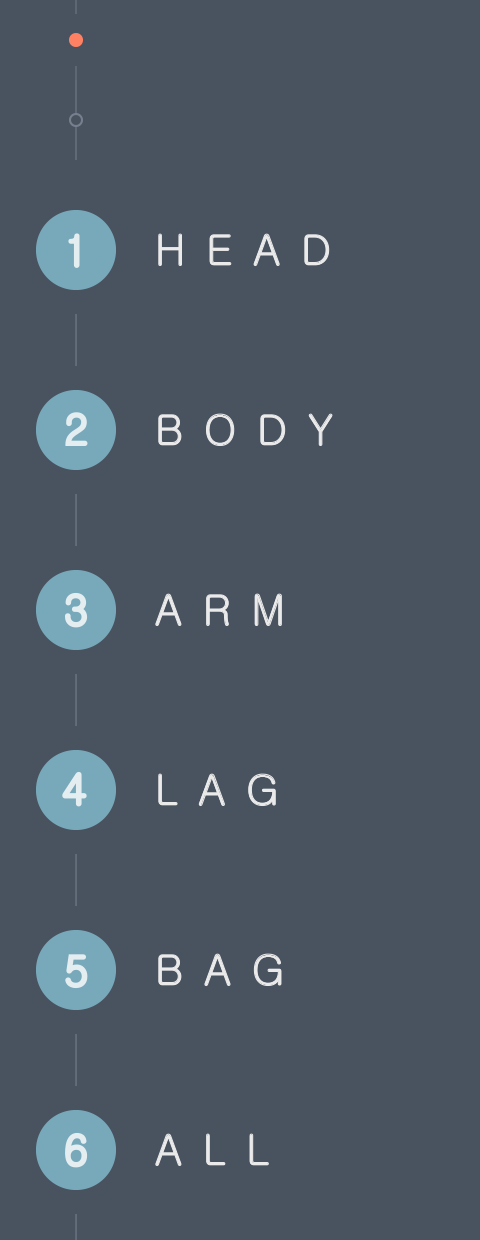
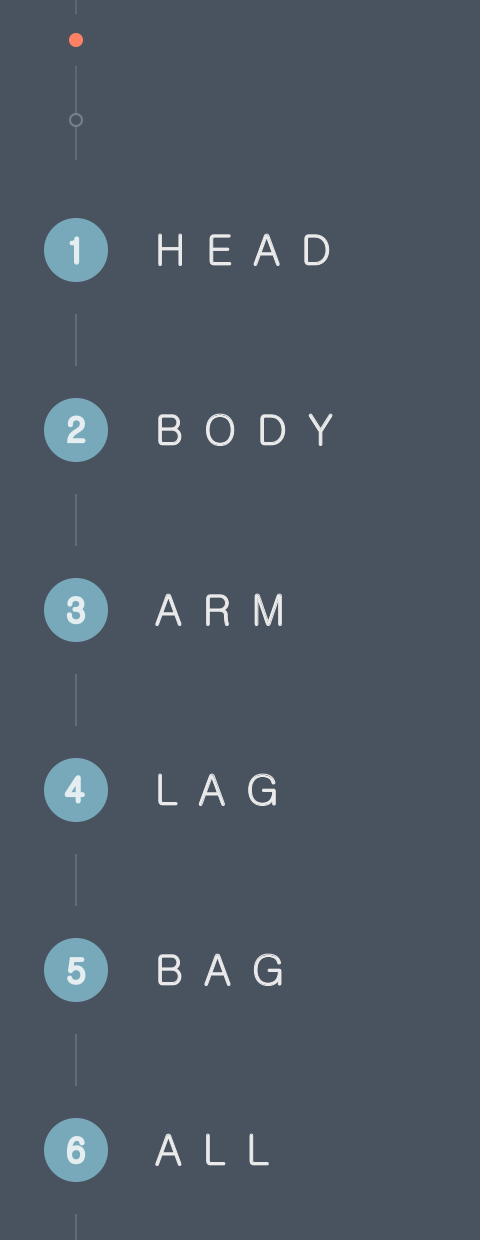
080

diff --git a/index.html b/index.html
@@ -24,7 +24,7 @@
         <div id="menu">
             <div id="contentsPage" class="scrollable">
                 <ul>
-                    <div id="menuTitle1"></div>
+                    <div id="contentsTitle1"></div>
                     <li>
                         <ul>
                             <li>01<span>R1  B3  G9 ...</span></li>
@@ -32,7 +32,7 @@
                             <li>03<span>G5  G14</span></li>
                         </ul>
                     </li>
-                    <div id="menuTitle2"></div>
+                    <div id="contentsTitle2"></div>
                     <li>
                         <ul>
                             <li>04<span>W1  B3  G9 ...</span></li>
@@ -41,14 +41,14 @@
                             <li>07<span>R1  G10  Y8</span></li>
                         </ul>
                     </li>
-                    <div id="menuTitle3"></div>
+                    <div id="contentsTitle3"></div>
                     <li>
                         <ul>
                             <li>08<span>R1  W3  Y7 ...</span></li>
                             <li>09<span>W1  B3  G9 ...</span></li>
                         </ul>
                     </li>
-                    <div id="menuTitle4"></div>
+                    <div id="contentsTitle4"></div>
                     <li>
                         <ul>
 
@@ -57,7 +57,7 @@
                             <li>12<span>R1  G10  Y8</span></li>
                         </ul>
                     </li>
-                    <div id="menuTitle5"></div>
+                    <div id="contentsTitle5"></div>
                     <li>
                         <ul>
                             <li>13<span>R1  W3  Y7 ...</span></li>
@@ -65,7 +65,7 @@
                             <li>15<span>B9  W3  B10 ...</span></li>
                         </ul>
                     </li>
-                    <div id="menuTitle6"></div>
+                    <div id="contentsTitle6"></div>
                     <li>
                         <ul>
                             <li>16<span>G5  G14</span></li>
@@ -78,7 +78,53 @@
             </div>
             <div id="searchPage">
                 <div id="filterPanel" class="scrollable">
-
+                    <div id="titleColor"></div>
+                    <div id="panelColor">
+                        <ul>
+                            <li id="colorWhite"></li>
+                            <li id="colorGray"></li>
+                            <li id="colorBlack"></li>
+                            <li id="colorBlue"></li>
+                            <li id="colorGreen"></li>
+                            <li id="colorYellow"></li>
+                            <li id="colorRed"></li>
+                        </ul>
+                    </div>
+                    <div id="titleNumber"></div>
+                    <div id="panelNumber">
+                        <ul>
+                            <li id="defaultNumber">1</li>
+                            <li>2</li>
+                            <li>3</li>
+                            <li>4</li>
+                            <li>5</li>
+                            <li>6</li>
+                            <li>7</li>
+                            <li>8</li>
+                            <li>9</li>
+                            <li>10</li>
+                            <li>11</li>
+                            <li>12</li>
+                            <li>13</li>
+                            <li>14</li>
+                            <li>15</li>
+                            <li>16</li>
+                            <li>17</li>
+                            <li>18</li>
+                            <li>19</li>
+                            <li>20</li>
+                            <li>21</li>
+                            <li>22</li>
+                            <li>23</li>
+                            <li>24</li>
+                            <li>25</li>
+                            <li>26</li>
+                            <li>27</li>
+                            <li>28</li>
+                            <li>29</li>
+                            <li>30</li>
+                        </ul>
+                    </div>
                 </div>
                 <div id="searchBtn">
                     Find B2

diff --git a/javascripts/main.js b/javascripts/main.js
@@ -59,6 +59,7 @@ var $mainBox = $("#mainBox"),
     $menuBtn = $("#menuBtn,#headerText"),
     $mainMask = $("#mainMask"),
     $contentsItem = $("#contentsPage li li"),
+    $colorItem = $("#panelColor li"),
     $previousBtn = $("#previousBtn"),
     $nextBtn = $("#nextBtn"),
     $previousGlow = $("#previousGlow"),
@@ -81,7 +82,8 @@ var $mainBox = $("#mainBox"),
     stepText = document.getElementById("stepText"),
     gradient = document.getElementById("menuFooterGradient"),
     // $animation1 = $("#animation1"),
-    lastItem = false,
+    lastContentsItem = false,
+    lastColorItem = $colorItem[0],
     separate = true,
     isChangeStep = true,
     currentStep = 1,
@@ -165,16 +167,16 @@ function menuTagTo(tag,lineTranslate,pageTranslate) {
 };
 
 function selectStep(item) {
-    if (item == lastItem) {
+    if (item == lastContentsItem) {
         return;
     };
-    if(lastItem){
-        lastItem.style.backgroundPosition = "0 -48px";
-        lastItem.style.color = "#9A9FA8";
+    if(lastContentsItem){
+        lastContentsItem.style.backgroundPosition = "0 -40px";
+        lastContentsItem.style.color = "#9A9FA8";
     };
     item.style.backgroundPosition = "0 0";
     item.style.color = "#CCD3DD";
-    lastItem = item;
+    lastContentsItem = item;
 };
 
 function changeStepN() {
@@ -282,13 +284,7 @@ aniBox2.addEventListener('webkitAnimationEnd', function(){
     };
 }, false);
 
-// aniBtn.addEventListener('webkitTransitionEnd', function(){
-//     if (separate) {
-//         mainAnimationS();
-//     }else{
-//         mainAnimationC();
-//     };
-// }, false);
+
 
 function padding(n) {
     return(("00" + n).slice(-3));
@@ -313,6 +309,21 @@ function mainAnimationS() {
     isChangeStep = false;
     imgAnimation.style.webkitAnimation = "mainAnimationS 0.5s forwards steps(19)";
 };
+
+function selectColor(item) {
+    lastColorItem.style.backgroundPositionY = "0";
+    item.style.backgroundPositionY = "-50px";
+    lastColorItem = item;
+
+};
+
+
+
+
+
+
+
+
 
 $(window).bind('onorientationchange resize', function() {
     resize();
@@ -344,6 +355,10 @@ $contentsItem.bind('touchend', function() {
     changeStepJ(($contentsItem.index(this))+1);
     selectStep(this);
     closeMenuBar();
+});
+
+$colorItem.bind('touchend', function() { 
+    selectColor(this);
 });
 
 $previousBtn.bind('touchstart', function() { 
@@ -687,5 +702,13 @@ $aniBtn.bind('touchstart', function() {
 //         };
 //     }, 40);
 // };
+
+// aniBtn.addEventListener('webkitTransitionEnd', function(){
+//     if (separate) {
+//         mainAnimationS();
+//     }else{
+//         mainAnimationC();
+//     };
+// }, false);
 
 });

diff --git a/stylesheets/stylesheet.css b/stylesheets/stylesheet.css
@@ -309,27 +309,27 @@ body, html{
     background-size: 240px 620px;
 }
 
-#menuTitle1{
+#contentsTitle1{
     background-position: 0 -80px;
 }
 
-#menuTitle2{
+#contentsTitle2{
     background-position: 0 -170px;
 }
 
-#menuTitle3{
+#contentsTitle3{
     background-position: 0 -260px;
 }
 
-#menuTitle4{
+#contentsTitle4{
     background-position: 0 -350px;
 }
 
-#menuTitle5{
+#contentsTitle5{
     background-position: 0 -440px;
 }
 
-#menuTitle6{
+#contentsTitle6{
     background-position: 0 -430px;
 }
 
@@ -356,12 +356,89 @@ body, html{
 
 #filterPanel{
     /*background: red;*/
-    width: 190px;
+    width: 100%;
     height: auto;
     position: absolute;
     bottom: 95px;
-    left: 25px;
+    overflow: auto;
+    /*left: 25px;*/
     top: 0;
+}
+
+#titleColor,#titleNumber{
+    width: 100%;
+    height: 90px;
+    background-image: url(../images/searchTitle.png);
+    background-size: 240px 180px;
+}
+
+#titleColor{
+    background-position: 0 0;
+}
+
+#titleNumber{
+    background-position: 0 -90px;
+}
+
+#panelColor,#panelNumber{
+    width: 200px;
+    margin: 0 auto;
+}
+
+#panelColor{
+    height: 100px;
+}
+
+#panelNumber{
+    height: 240px;
+}
+
+#panelColor li {
+    width: 50px;
+    height: 50px;
+    float: left;
+    text-align: center;
+    line-height: 50px;
+    background-image: url(../images/colorPanel.png);
+    background-size: 350px 100px;
+}
+
+#colorWhite{
+    background-position: 0 -50px;
+}
+#colorGray{
+    background-position: -50px 0;
+}
+#colorBlack{
+    background-position: -100px 0;
+}
+#colorBlue{
+    background-position: -150px 0;
+}
+#colorGreen{
+    background-position: -200px 0;
+}
+#colorYellow{
+    background-position: -250px 0;
+}
+#colorRed{
+    background-position: -300px 0;
+}
+
+#defaultNumber{
+    background-color: #78A9BB;
+    border-radius: 20px;
+    color: #FFFFFF !important;
+}
+
+#panelNumber li{
+    width: 30px;
+    height: 30px;
+    margin: 5px 5px;
+    float: left;
+    text-align: center;
+    line-height: 30px;
+    color: #9A9FA8;
 }
 
 #searchBtn{
